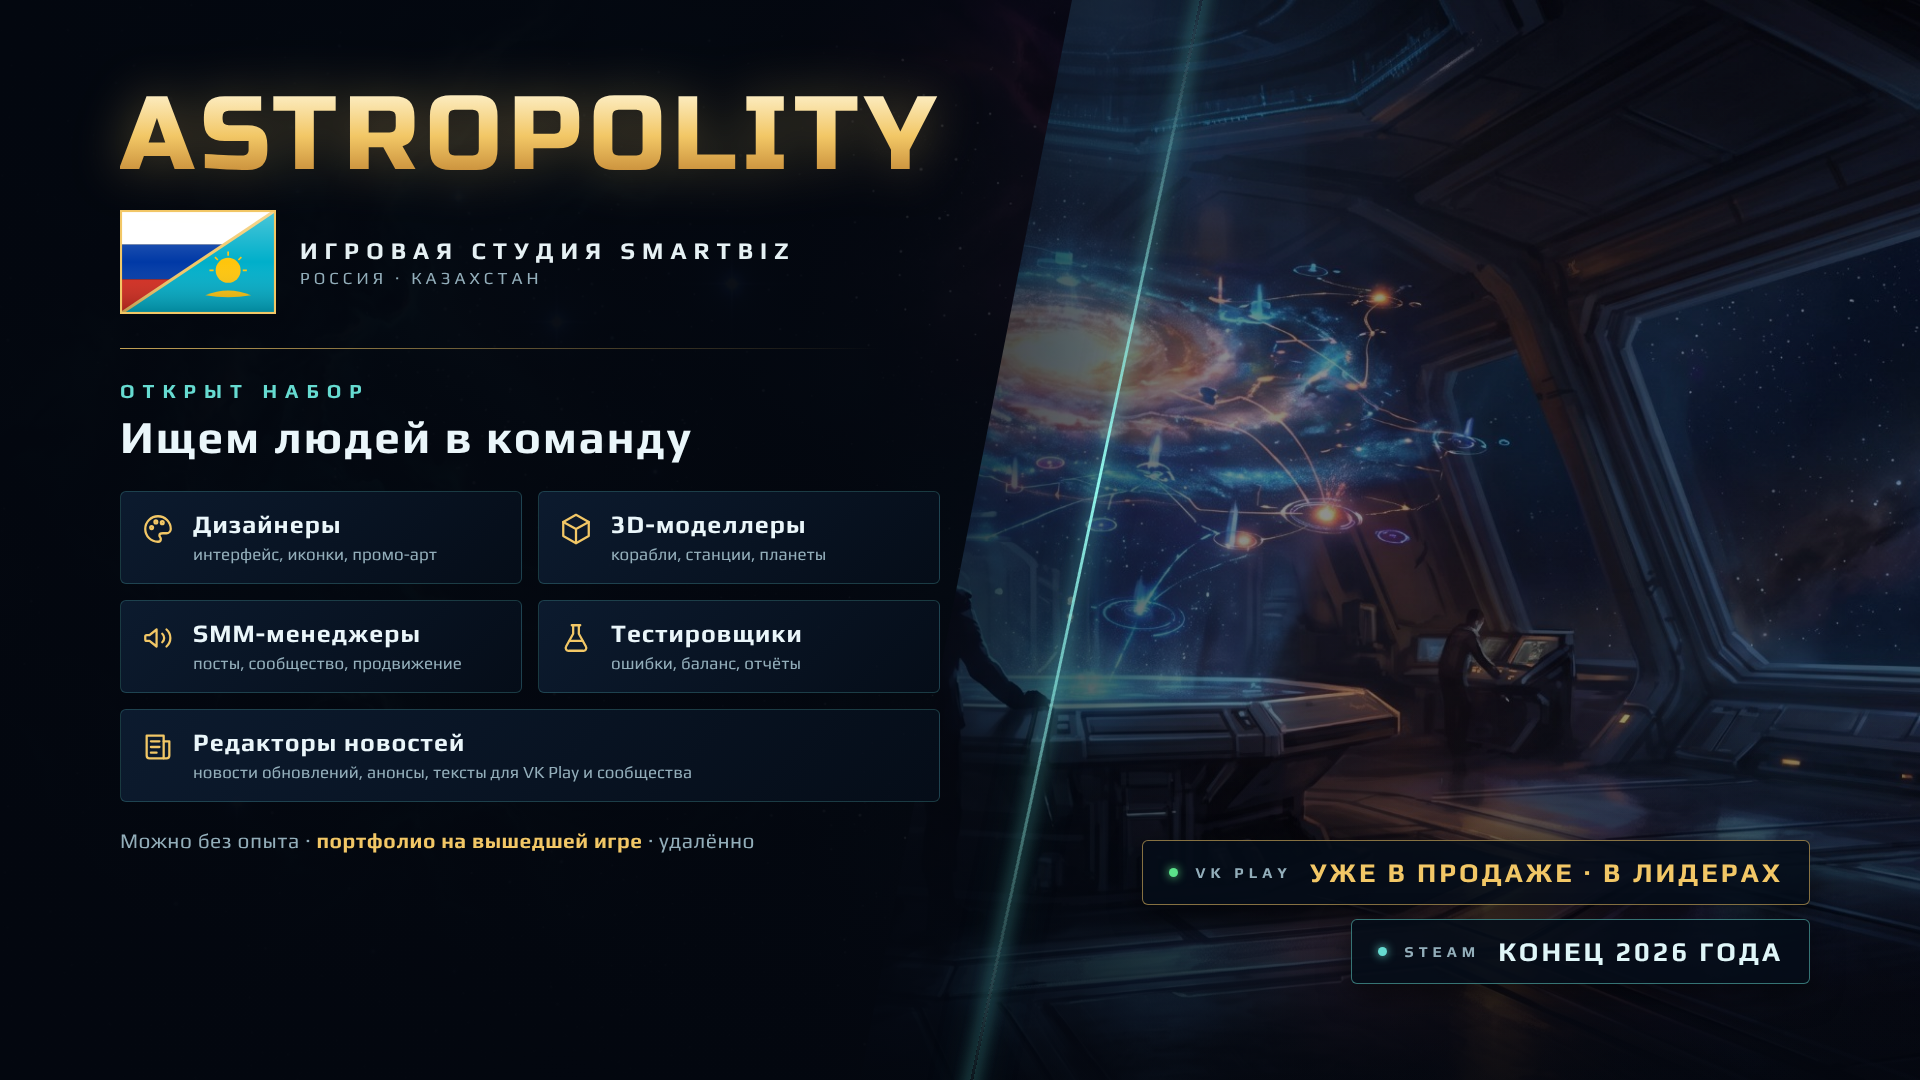
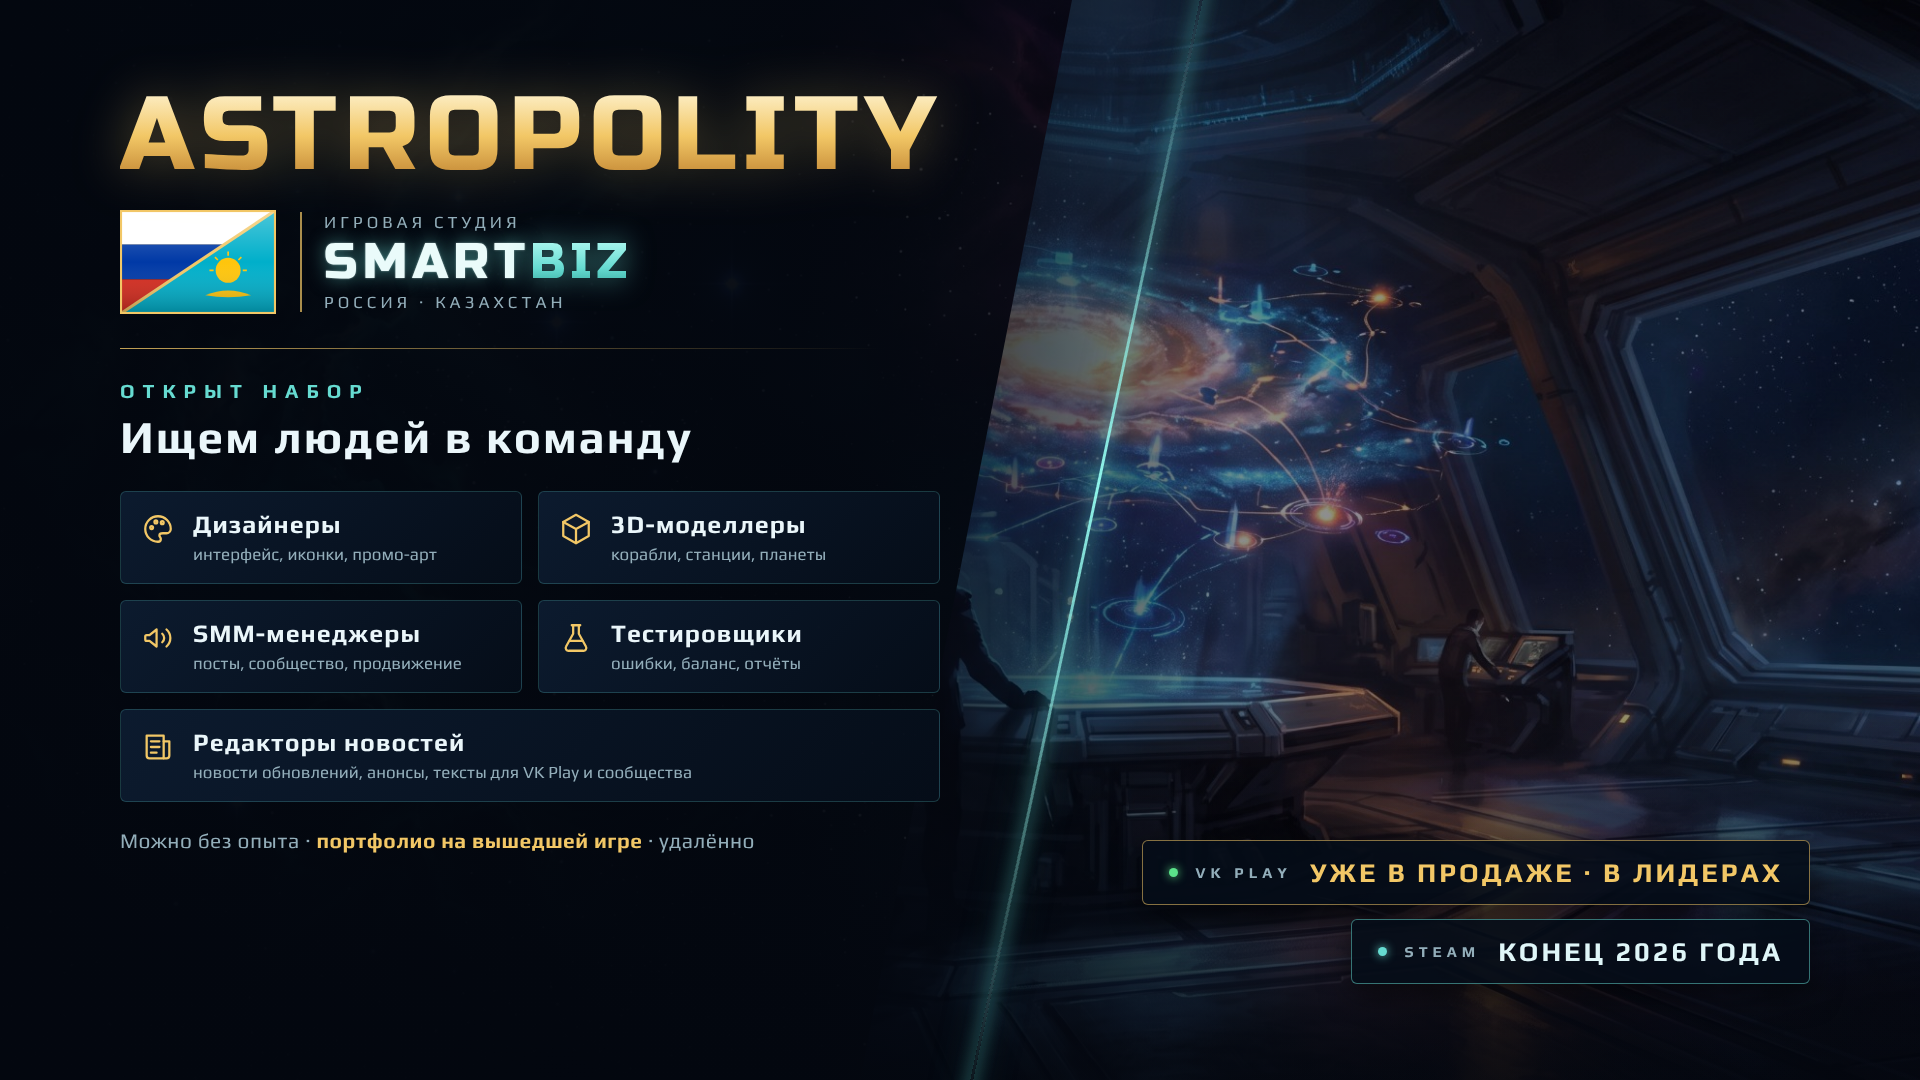
Вакансии: название студии SmartBiz крупно, со свечением и золотой чертой
Claude-Session: https://claude.ai/code/session_01MBQ4JGpUh1c6nHPDeTgt1b

Changed region(s): [[0.1562, 0.1833, 0.4062, 0.3056]]

diff --git a/Tools/news/hiring.html b/Tools/news/hiring.html
@@ -24,6 +24,11 @@ body { width: 1920px; height: 1080px; overflow: hidden; background: #03070F; fon
 .studio { display: flex; align-items: center; gap: 24px; margin-top: 22px; }
 .studio .t { display: flex; flex-direction: column; gap: 4px; }
 .studio b { font-weight: 700; font-size: 24px; letter-spacing: 7px; color: #E6F1F4; }
+.studio .name { font-family: Russo; font-size: 50px; letter-spacing: 5px; line-height: 1.05; color: #EAFBFA;
+  text-shadow: 0 0 18px rgba(102,219,209,0.55), 0 0 2px rgba(255,255,255,0.6); }
+.studio .name span { background: linear-gradient(180deg, #BFFFF8, #66DBD1 60%, #2E9E95); -webkit-background-clip: text; color: transparent; text-shadow: none;
+  filter: drop-shadow(0 0 14px rgba(102,219,209,0.6)); }
+.studio .t { border-left: 2px solid rgba(242,199,102,0.7); padding-left: 22px; }
 .studio i { font-style: normal; font-size: 17px; letter-spacing: 4px; color: var(--muted); }
 .rule { height: 1px; width: 760px; margin: 34px 0 30px; background: linear-gradient(90deg, rgba(242,199,102,0.8), rgba(242,199,102,0)); }
 .head { font-weight: 700; font-size: 20px; letter-spacing: 8px; color: var(--cyan); }
@@ -64,7 +69,7 @@ body { width: 1920px; height: 1080px; overflow: hidden; background: #03070F; fon
         <line x1="150" y1="0" x2="0" y2="100" stroke="#F2C766" stroke-width="3"/>
         <rect width="150" height="100" fill="url(#fg)"/><rect x="1" y="1" width="148" height="98" fill="none" stroke="#F2C766" stroke-width="2"/>
       </svg>
-      <div class="t"><b>ИГРОВАЯ СТУДИЯ SMARTBIZ</b><i>РОССИЯ · КАЗАХСТАН</i></div>
+      <div class="t"><i>ИГРОВАЯ СТУДИЯ</i><div class="name">SMART<span>BIZ</span></div><i>РОССИЯ · КАЗАХСТАН</i></div>
     </div>
     <div class="rule"></div>
     <div class="head">ОТКРЫТ НАБОР</div>
